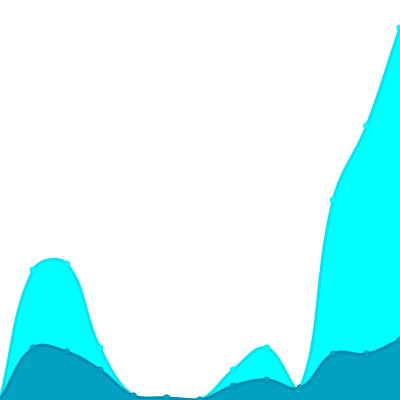
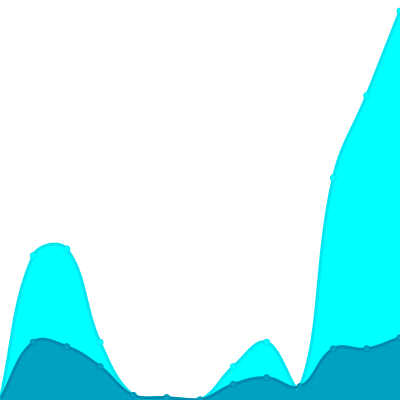
Update views

diff --git a/readme/585246516/year.md b/readme/585246516/year.md
@@ -23,10 +23,10 @@
 			<code>2023/12/1</code>
 		</td>
 		<td>
-			<code>30</code>
+			<code>28</code>
 		</td>
 		<td>
-			<code>186</code>
+			<code>175</code>
 		</td>
 	</tr>
 	<tr>
@@ -164,7 +164,7 @@
 </table>
 
 </details>
-<small><i>Last updated on 2023/12/26 12:29 PM UTC</i></small>
+<small><i>Last updated on 2023/12/26 6:19 PM UTC</i></small>
 
 ## ✂Copy and 📋 Paste
 ### SVG Badge

diff --git a/README.md b/README.md
@@ -261,7 +261,7 @@ The project created and maintained by [gayanvoice](https://github.com/gayanvoice
 	</tr>
 </table>
 
-<small><i>Last updated on 2023/12/26 12:30 PM UTC</i></small>
+<small><i>Last updated on 2023/12/26 6:20 PM UTC</i></small>
 
 ## ✂Copy and 📋 Paste
 ### Total Views Badge

diff --git a/readme/575984445/year.md b/readme/575984445/year.md
@@ -164,7 +164,7 @@
 </table>
 
 </details>
-<small><i>Last updated on 2023/12/26 12:29 PM UTC</i></small>
+<small><i>Last updated on 2023/12/26 6:19 PM UTC</i></small>
 
 ## ✂Copy and 📋 Paste
 ### SVG Badge

diff --git a/readme/579040991/year.md b/readme/579040991/year.md
@@ -164,7 +164,7 @@
 </table>
 
 </details>
-<small><i>Last updated on 2023/12/26 12:29 PM UTC</i></small>
+<small><i>Last updated on 2023/12/26 6:19 PM UTC</i></small>
 
 ## ✂Copy and 📋 Paste
 ### SVG Badge

diff --git a/readme/580090437/year.md b/readme/580090437/year.md
@@ -164,7 +164,7 @@
 </table>
 
 </details>
-<small><i>Last updated on 2023/12/26 12:29 PM UTC</i></small>
+<small><i>Last updated on 2023/12/26 6:19 PM UTC</i></small>
 
 ## ✂Copy and 📋 Paste
 ### SVG Badge

diff --git a/readme/585602897/year.md b/readme/585602897/year.md
@@ -164,7 +164,7 @@
 </table>
 
 </details>
-<small><i>Last updated on 2023/12/26 12:29 PM UTC</i></small>
+<small><i>Last updated on 2023/12/26 6:19 PM UTC</i></small>
 
 ## ✂Copy and 📋 Paste
 ### SVG Badge

diff --git a/readme/587856184/year.md b/readme/587856184/year.md
@@ -164,7 +164,7 @@
 </table>
 
 </details>
-<small><i>Last updated on 2023/12/26 12:29 PM UTC</i></small>
+<small><i>Last updated on 2023/12/26 6:19 PM UTC</i></small>
 
 ## ✂Copy and 📋 Paste
 ### SVG Badge

diff --git a/readme/588312814/year.md b/readme/588312814/year.md
@@ -164,7 +164,7 @@
 </table>
 
 </details>
-<small><i>Last updated on 2023/12/26 12:29 PM UTC</i></small>
+<small><i>Last updated on 2023/12/26 6:20 PM UTC</i></small>
 
 ## ✂Copy and 📋 Paste
 ### SVG Badge

diff --git a/readme/590209017/year.md b/readme/590209017/year.md
@@ -164,7 +164,7 @@
 </table>
 
 </details>
-<small><i>Last updated on 2023/12/26 12:29 PM UTC</i></small>
+<small><i>Last updated on 2023/12/26 6:19 PM UTC</i></small>
 
 ## ✂Copy and 📋 Paste
 ### SVG Badge

diff --git a/readme/590585276/year.md b/readme/590585276/year.md
@@ -164,7 +164,7 @@
 </table>
 
 </details>
-<small><i>Last updated on 2023/12/26 12:30 PM UTC</i></small>
+<small><i>Last updated on 2023/12/26 6:20 PM UTC</i></small>
 
 ## ✂Copy and 📋 Paste
 ### SVG Badge

diff --git a/readme/593365146/year.md b/readme/593365146/year.md
@@ -164,7 +164,7 @@
 </table>
 
 </details>
-<small><i>Last updated on 2023/12/26 12:30 PM UTC</i></small>
+<small><i>Last updated on 2023/12/26 6:20 PM UTC</i></small>
 
 ## ✂Copy and 📋 Paste
 ### SVG Badge

diff --git a/readme/596222269/year.md b/readme/596222269/year.md
@@ -164,7 +164,7 @@
 </table>
 
 </details>
-<small><i>Last updated on 2023/12/26 12:30 PM UTC</i></small>
+<small><i>Last updated on 2023/12/26 6:20 PM UTC</i></small>
 
 ## ✂Copy and 📋 Paste
 ### SVG Badge
